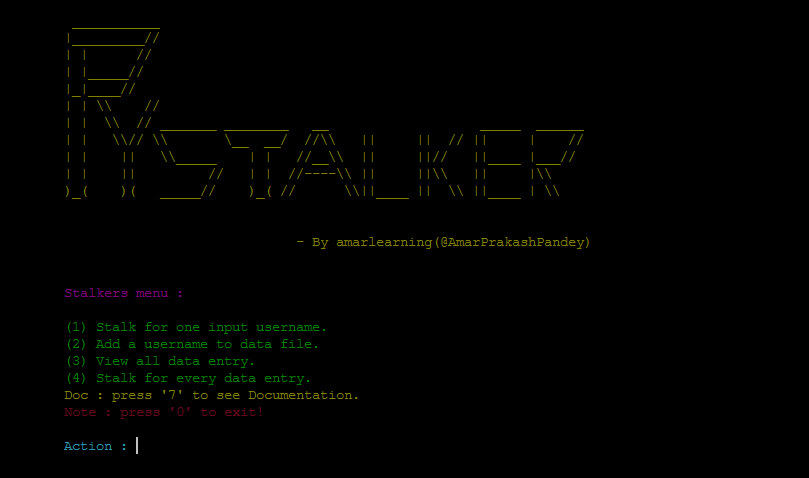
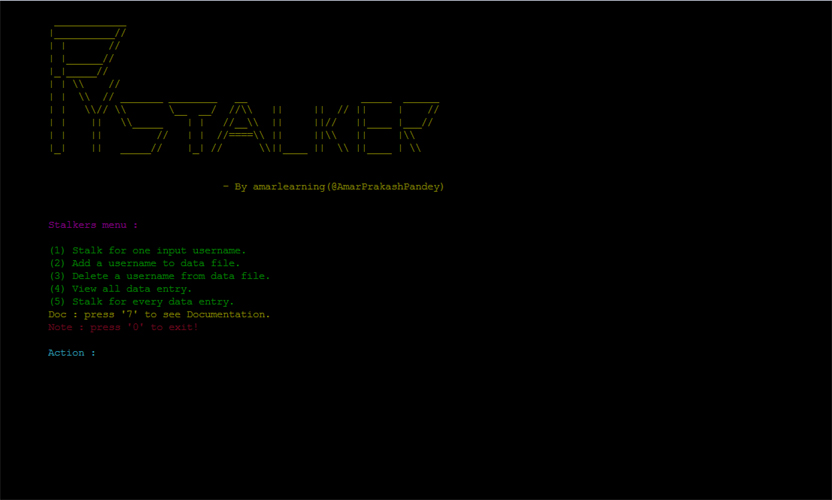
delete entry option added :neckbeard:

diff --git a/stalker.py b/stalker.py
@@ -4,7 +4,7 @@
 # @Email:  amar.om1994@gmail.com  
 # @Github username: @amarlearning
 # @Last Modified by: Amar Prakash Pandey  
-# @Last Modified time: 2016-04-15
+# @Last Modified time: 2016-04-16
 # MIT License. You can find a copy of the License
 # @http://amarlearning.mit-license.org
 
@@ -26,13 +26,13 @@ def head() :
          ____________
         |__________//
         | |       //
-        | |______//        
-        |_|_____//     
+        | |______//
+        |_|_____//
         | | \\    //
         | |  \\  // _______ ________   __                   _____  ______
         | |   \\// \\       \__  __/  //\\   ||     ||  // ||     |    //
         | |    ||   \\_____    | |   //__\\  ||     ||//   ||____ |___//
-        | |    ||         //   | |  //----\\ ||     ||\\   ||     |\\
+        | |    ||         //   | |  //====\\ ||     ||\\   ||     |\\
         |_|    ||   _____//    |_| //      \\||____ ||  \\ ||____ | \\
                                   
 
@@ -68,6 +68,61 @@ def check_already_present(username) :
         if username == user :
             loop = 1
     return loop
+
+def delete_a_username(delete_node) :
+    cwd = os.getcwd()
+    file_path = cwd+"\DATA"   
+    file_content = open(file_path)
+    file_read = file_content.read()
+    users_list = file_read.split()
+    print users_list
+    loop = 0
+    flag = -10
+    for user in users_list :
+        if delete_node == user :
+            flag = loop
+        loop = loop + 1
+    if flag > -1 :
+        del users_list[flag]
+        print users_list
+        cwd = os.getcwd()
+        file_path = cwd+"\DATA"   
+        file_content = open(file_path,'w')
+        for user in users_list :
+            user = " " + user
+            file_content.write(user)
+        file_content.close()
+        flag = 6
+        call_defined_function(menu(flag))
+    else :
+        flag = 5
+        call_defined_function(menu(flag))
+
+def notification(flag) :
+    if flag == 1 :
+        puts(colored.red("\terror : wrong value entered! input correct value."))
+        space()
+        flag = 0
+    elif flag == 2 :
+        puts(colored.yellow("\tsuccess : username successfully added to data file."))
+        space()
+        flag = 0
+    elif flag == 3 :
+        puts(colored.red("\terror : invalid username entered."))
+        space()
+        flag = 0
+    elif flag == 4 :
+        puts(colored.red("\terror : username already present."))
+        space()
+        flag = 0
+    elif flag == 5 :
+        puts(colored.red("\terror : username not present in list."))
+        space()
+        flag = 0
+    elif flag == 6 :
+        puts(colored.yellow("\tsuccess : username deleted successfully."))
+        space()
+        flag = 0
 
 def add_name_to_data(username) :
     """adding a username to the data file"""
@@ -123,22 +178,7 @@ def menu(flag) :
     head()
     puts(colored.magenta("\tStalkers menu : "))
     space()
-    if flag == 1 :
-        puts(colored.red("\terror : wrong value entered! input correct value."))
-        space()
-        flag = 0
-    elif flag == 2 :
-        puts(colored.yellow("\tsuccess : username successfully added to data file."))
-        space()
-        flag = 0
-    elif flag == 3 :
-        puts(colored.red("\terror : invalid username entered."))
-        space()
-        flag = 0
-    elif flag == 4 :
-        puts(colored.red("\terror : username already present."))
-        space()
-        flag = 0
+    notification(flag)
     puts(colored.green("\t(1) Stalk for one input username. "))
     puts(colored.green("\t(2) Add a username to data file. "))
     puts(colored.green("\t(3) Delete a username from data file. "))
@@ -159,7 +199,14 @@ def call_defined_function(value) :
         puts(colored.green("\tFill out the username : "))
         username = raw_input("\t")
         add_name_to_data(username)
+    elif(value == 3) :
+        """delete a username from the data file"""
+        head()
+        puts(colored.green("\tFill out the username : "))
+        delete_node = raw_input("\t")
+        delete_a_username(delete_node)
     elif(value == 4): 
+        """display all the data present in the data file."""
         head()
         show_all_data()
     elif(value == 0):

diff --git a/README.md b/README.md
@@ -11,7 +11,7 @@
                       | |  \\  // _______ ________   __                   _____  ______
                       | |   \\// \\       \__  __/  //\\   ||     ||  // ||     |    //
                       | |    ||   \\_____    | |   //__\\  ||     ||//   ||____ |___//
-                      | |    ||         //   | |  //----\\ ||     ||\\   ||     |\\
+                      | |    ||         //   | |  //====\\ ||     ||\\   ||     |\\
                       )_(    )(   _____//    )_( //      \\||____ ||  \\ ||____ | \\
 ```
 
